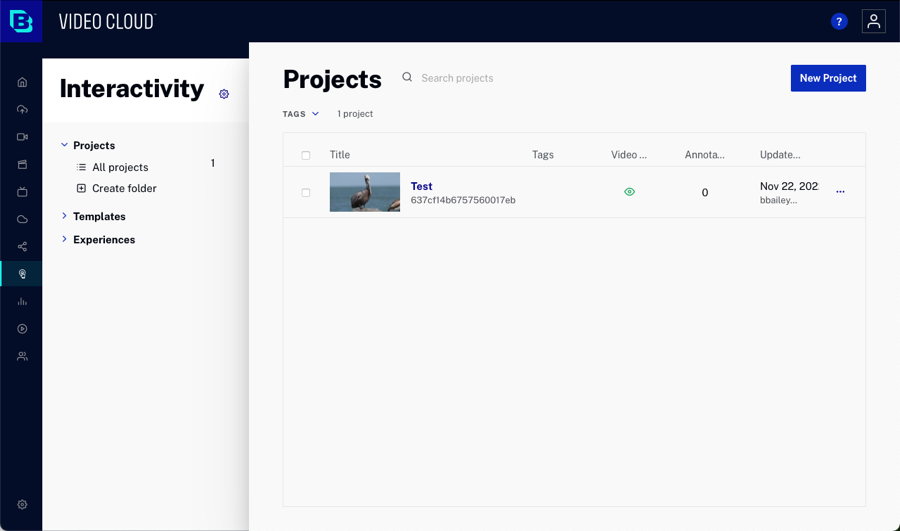
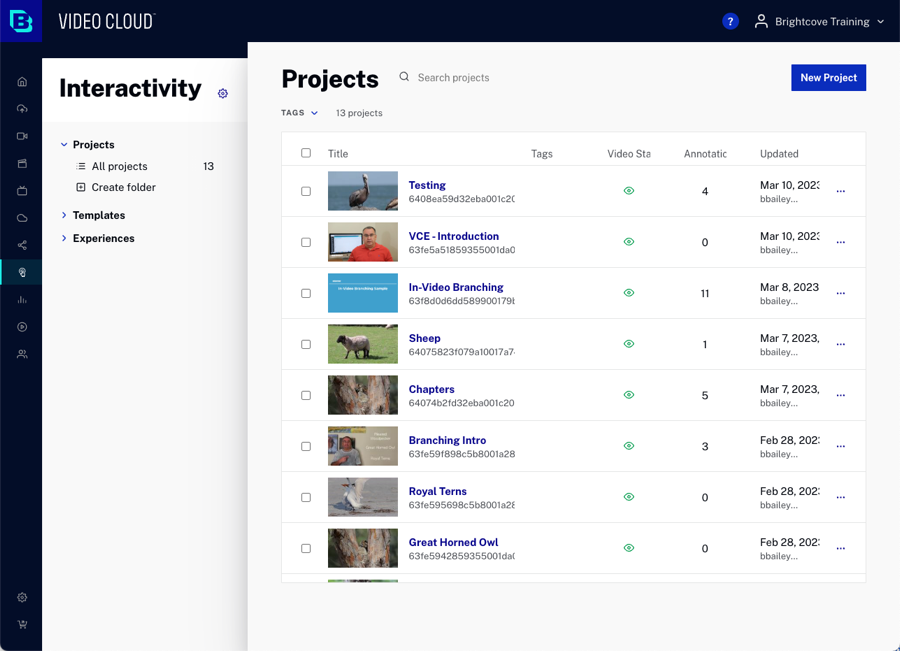
image updates

diff --git a/_site/getting-started/interactive-video-types.html b/_site/getting-started/interactive-video-types.html
@@ -921,13 +921,12 @@
   <summary>In this topic you will learn about the three types of interactive videos.</summary>
   <section class="bcls-section">
     <p>Brightcove Interactivity is a flexible and extensible platform for creating different types of interactive videos. There are 3 core types of interactive videos.</p>
-    <aside class="bcls-aside bcls-aside--information language-editable">Note: You may still see the older "Playlists" feature in your group. That is being deprecated in favor of the <a href="/platform/experiences/creating-branching-experience.html">Branching experience</a>.</aside>
-    <figure class="bcls-figure"> <img src="/assets/images/s-brightcove-interactivity-img/platform/getting-started/interactivity-header.png"> </figure>
+    <figure class="bcls-figure"> <img src="/assets/images/s-brightcove-interactivity-img/getting-started/interactivity-nav.png"> </figure>
   </section>
   <section class="bcls-section">
     <h2 id="projects">Projects</h2>
     <p>A <strong><a href="/platform/projects/creating-and-managing-projects.html">Project</a></strong> is a single video with annotations. This is the most frequently used video type. </p>
-    <figure class="bcls-figure"> <img src="/assets/images/s-brightcove-interactivity-img/platform/getting-started/project-video-type.png"> </figure>
+    <figure class="bcls-figure"> <img src="/assets/images/s-brightcove-interactivity-img/getting-started/project-ui.png"> </figure>
   </section>
   <section class="bcls-section">
     <h2 id="template">Templates</h2>
@@ -937,7 +936,7 @@
   <section class="bcls-section">
     <h2 id="experience">Experiences</h2>
     <p>An <strong><a href="/platform/experiences/experiences-overview.html">Experience</a></strong> is a Project combined with other elements (like synced slides or an e-commerce cart) outside the video player that dynamically interact with player. </p>
-    <figure class="bcls-figure"> <img src="/assets/images/s-brightcove-interactivity-img/platform/getting-started/experience-type.png"> </figure>
+    <figure class="bcls-figure"> <img src="/assets/images/s-brightcove-interactivity-img/getting-started/experience-ui.png"> </figure>
   </section>
 </article>
 <!-- <div class="col-sm-2 right-side-bar" style="display: inline-block;max-width: 20%;"> -->
